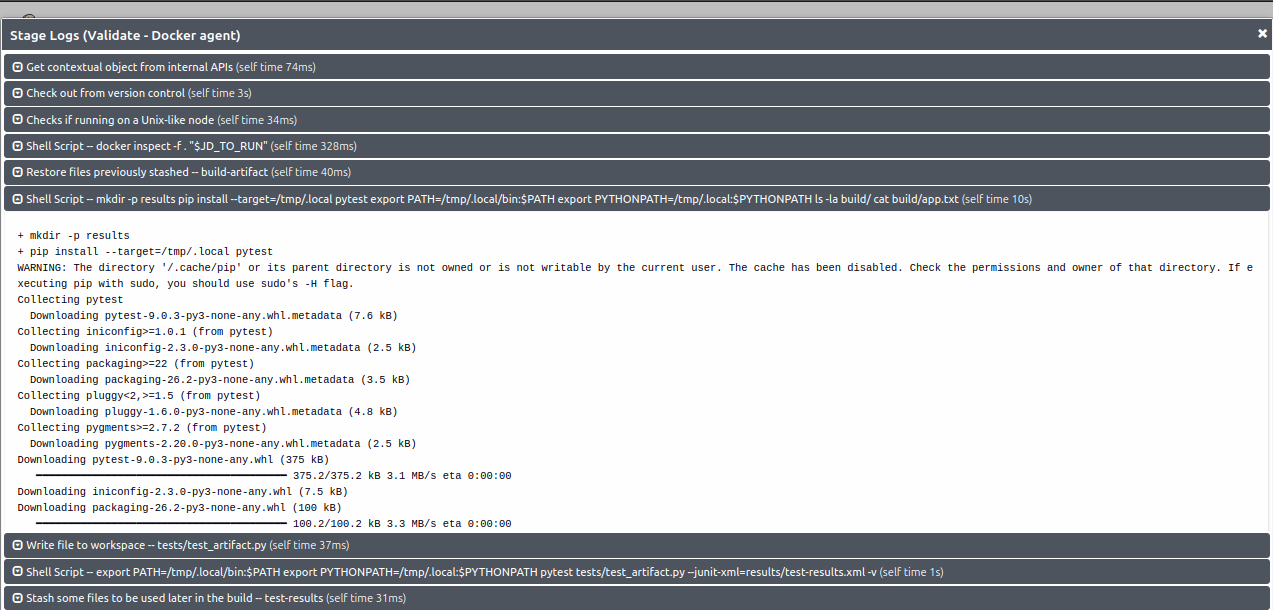
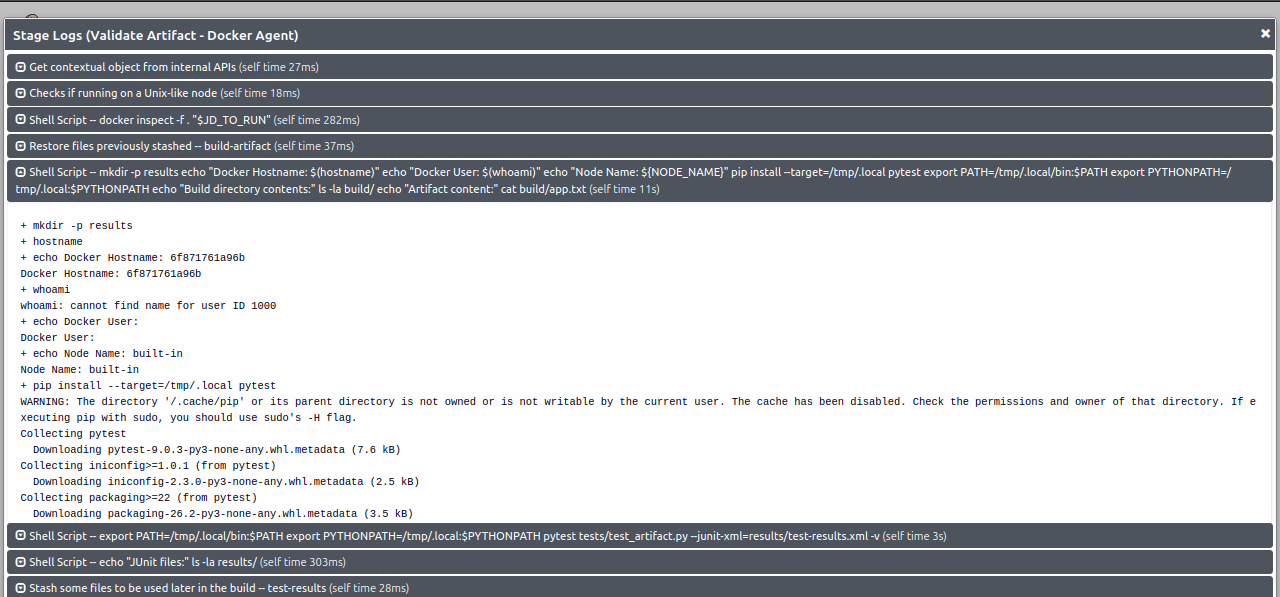
feat(jenkins): implement distributed multi-agent pipeline :notebook: :pencil: :book: :package:

Changed region(s): [[0.0, 0.0302, 1.0, 1.0]]

diff --git a/phase-3-agents/lab-3.3-multi-agent-pipeline/tests/test_artifact.py b/phase-3-agents/lab-3.3-multi-agent-pipeline/tests/test_artifact.py
@@ -1,0 +1,10 @@
+from pathlib import Path
+
+
+def test_artifact_exists():
+    assert Path("build/app.txt").exists()
+
+
+def test_artifact_content():
+    content = Path("build/app.txt").read_text()
+    assert "Application Build Artifact" in content
